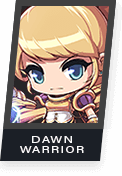
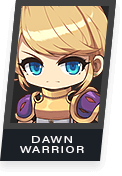
Nova updated to newer format
+CK portraits updated to remaster ones
+Added back class suggestions in CO outro
+Winter theme + monad tribute

diff --git a/components/ClassSwipers.js b/components/ClassSwipers.js
@@ -141,7 +141,7 @@ export function TopClassSwipe({classes}){
     Created by: Ikasuu, Fall 2020
 */
 
-function ClassSwipe({classGroup}) {
+function ClassSwipe({classTitle, classGroup}) {
     let name = classGroup
     
     // Removes words like (Xenon) or (Beast Tamer) for Resistance and Other type classes when displaying <h5>
@@ -181,21 +181,22 @@ function ClassSwipe({classGroup}) {
                     }
                 }}
             >
-                {renderSwitch(name)}
+                {renderSwitch(name, classTitle)}
             </Swiper>
         </LazyLoad>
     );
 }
 
 //Renders the proper class groups based on current class group
-function renderSwitch(param){
-    switch (param) {
+function renderSwitch(classGroup, classTitle){
+    switch (classGroup) {
         case "Explorers":
+            var classArr = classes.explorers.filter(job => job[1] != classTitle);
             return(
-                classes.explorers.map((job, index) => 
+                classArr.map((job, index) => 
                     <SwiperSlide key={index}>
                         <Link href="/explorers/[slug]" as={`/explorers/${job[0]}`}>
-                            <a className="hvr-float">
+                            <a className="hvr-float" target="_blank" rel="noreferrer noopener">
                                 <Image src={`/class-portrait/${job[0]}.png`} style={{width: '100px', margin: '1rem 0 1rem 0'}}/>
                                 <Overlay/>
                             </a>
@@ -205,11 +206,12 @@ function renderSwitch(param){
             );
 
         case "Cygnus Knights":
+            var classArr = classes.cygnusKnights.filter(job => job[1] != classTitle);
             return(
-                classes.cygnusKnights.map((job, index) => 
+                classArr.map((job, index) => 
                     <SwiperSlide key={index}>
                         <Link href="/cygnus-knights/[slug]" as={`/cygnus-knights/${job[0]}`}>
-                            <a className="hvr-float">
+                            <a className="hvr-float" target="_blank" rel="noreferrer noopener">
                                 <Image src={`/class-portrait/${job[0]}.png`} style={{width: '100px', margin: '1rem 0 0 0'}}/>
                                 <Overlay/>
                             </a>
@@ -219,11 +221,12 @@ function renderSwitch(param){
             );
 
         case "Heroes":
+            var classArr = classes.heroes.filter(job => job[1] != classTitle);
             return(
-                classes.heroes.map((job, index) => 
+                classArr.map((job, index) => 
                     <SwiperSlide key={index}>
                         <Link href="/heroes/[slug]" as={`/heroes/${job[0]}`}>
-                            <a className="hvr-float">
+                            <a className="hvr-float" target="_blank" rel="noreferrer noopener">
                                 <Image src={`/class-portrait/${job[0]}.png`} style={{width: '100px', margin: '1rem 0 1rem 0'}}/>
                                 <Overlay/>
                             </a>
@@ -233,11 +236,12 @@ function renderSwitch(param){
             );
 
         case "Resistance":
+            var classArr = classes.resistance.filter(job => job[1] != classTitle);
             return(
-                classes.resistance.map((job, index) => 
+                classArr.map((job, index) => 
                     <SwiperSlide key={index}>
                         <Link href="/resistance/[slug]" as={`/resistance/${job[0]}`}>
-                            <a className="hvr-float">
+                            <a className="hvr-float" target="_blank" rel="noreferrer noopener">
                                 <Image src={`/class-portrait/${job[0]}.png`} style={{width: '100px', margin: '1rem 0 1rem 0'}}/>
                                 <Overlay/>
                             </a>
@@ -247,11 +251,12 @@ function renderSwitch(param){
             );
 
         case "Nova":
+            var classArr = classes.nova.filter(job => job[1] != classTitle);
             return(
-                classes.nova.map((job, index) => 
+                classArr.map((job, index) => 
                     <SwiperSlide key={index}>
                         <Link href="/nova/[slug]" as={`/nova/${job[0]}`}>
-                            <a className="hvr-float">
+                            <a className="hvr-float" target="_blank" rel="noreferrer noopener">
                                 <Image src={`/class-portrait/${job[0]}.png`} style={{width: '100px', margin: '1rem 0 1rem 0'}}/>
                                 <Overlay/>
                             </a>
@@ -261,11 +266,12 @@ function renderSwitch(param){
             );
 
         case "Sengoku":
+            var classArr = classes.sengoku.filter(job => job[1] != classTitle);
             return(
-                classes.sengoku.map((job, index) => 
+                classArr.map((job, index) => 
                     <SwiperSlide key={index}>
                         <Link href="/sengoku/[slug]" as={`/sengoku/${job[0]}`}>
-                            <a className="hvr-float">
+                            <a className="hvr-float" target="_blank" rel="noreferrer noopener">
                                 <Image src={`/class-portrait/${job[0]}.png`} style={{width: '100px', margin: '1rem 0 1rem 0'}}/>
                                 <Overlay/>
                             </a>
@@ -275,11 +281,27 @@ function renderSwitch(param){
             );
 
         case "Flora":
+            var classArr = classes.flora.filter(job => job[1] != classTitle);
             return(
-                classes.flora.map((job, index) => 
+                classArr.map((job, index) => 
                     <SwiperSlide key={index}>
                         <Link href="/flora/[slug]" as={`/flora/${job[0]}`}>
-                            <a className="hvr-float">
+                            <a className="hvr-float" target="_blank" rel="noreferrer noopener">
+                                <Image src={`/class-portrait/${job[0]}.png`} style={{width: '100px', margin: '1rem 0 1rem 0'}}/>
+                                <Overlay/>
+                            </a>
+                        </Link>
+                    </SwiperSlide>
+                )
+            );
+
+        case "Anima":
+            var classArr = classes.anima.filter(job => job[1] != classTitle);
+            return(
+                classArr.map((job, index) => 
+                    <SwiperSlide key={index}>
+                        <Link href="/anima/[slug]" as={`/anima/${job[0]}`}>
+                            <a className="hvr-float" target="_blank" rel="noreferrer noopener">
                                 <Image src={`/class-portrait/${job[0]}.png`} style={{width: '100px', margin: '1rem 0 1rem 0'}}/>
                                 <Overlay/>
                             </a>
@@ -289,11 +311,12 @@ function renderSwitch(param){
             );
 
         case "Other":
+            var classArr = classes.other.filter(job => job[1] != classTitle);
             return(
-                classes.other.map((job, index) => 
+                classArr.map((job, index) => 
                     <SwiperSlide key={index}>
                         <Link href="/other/[slug]" as={`/other/${job[0]}`}>
-                            <a className="hvr-float">
+                            <a className="hvr-float" target="_blank" rel="noreferrer noopener">
                                 <Image src={`/class-portrait/${job[0]}.png`} style={{width: '100px', margin: '1rem 0 1rem 0'}}/>
                                 <Overlay/>
                             </a>
@@ -303,11 +326,12 @@ function renderSwitch(param){
             );
 
         default:
+            var classArr = classes.explorers.filter(job => job[1] != classTitle);
             return(
-                classes.explorers.map((job, index) => 
+                classArr.map((job, index) => 
                     <SwiperSlide key={index}>
                         <Link href={`/explorers/${job[0]}`}>
-                            <a className="hvr-float">
+                            <a className="hvr-float" target="_blank" rel="noreferrer noopener">
                                 <Image src={`/class-portrait/${job[0]}.png`} style={{width: '100px', margin: '1rem 0 1rem 0'}}/>
                                 <Overlay/>
                             </a>

diff --git a/components/class-overview/ClassOutro.js b/components/class-overview/ClassOutro.js
@@ -18,7 +18,7 @@ export function ClassOutro({classGroup, classTitle, moreInfo, credits}) {
             <BannerAdThree/>
             <hr/>
             <ClassMoreInfo classTitle={classTitle} moreInfo={moreInfo}/>
-            <ClassSuggestions classGroup={classGroup}/>
+            <ClassSuggestions classTitle={classTitle} classGroup={classGroup}/>
             <ClassCredit credits={credits}/>
         </div>
     );
@@ -47,11 +47,10 @@ function ClassMoreInfo({classTitle, moreInfo}) {
     Created by: Ikasuu, Fall 2020
 */
 
-function ClassSuggestions({classGroup}) {
+function ClassSuggestions({classTitle, classGroup}) {
     return (
         <div>
-            {/* Removed until fixed */}
-            {/* <ClassSwipe classGroup={classGroup}/> */}
+            <ClassSwipe classTitle={classTitle} classGroup={classGroup}/>
         </div>
     );
 }

diff --git a/special/SiteValues.js b/special/SiteValues.js
@@ -4,19 +4,19 @@
 */
 
 //Latest version of GMS
-export const version = 235; 
-export const versionName = "Rocking Revamp Update"
+export const version = 236; 
+export const versionName = "Midnight Carnival Update"
 
 export const loadingImage = "/loading.gif";
 export const logo = "/logo.png";
 
 //Image paths for our page headers
 export const HeaderImageUrl = {
-    library: "/headers/grandis-library.png",
-    grandis: "/headers/borderless.png",
-    fox: "/headers/fox-valley.png",
-    verdel: "/headers/verdel.png",
-    ristonia: "/headers/ristonia.png"
+    library: "/headers/monad-1.png",
+    grandis: "/headers/monad-2.png",
+    fox: "/headers/monad-3.png",
+    verdel: "/headers/monad-4.png",
+    ristonia: "/headers/monad-5.png"
 };
 
 // Image paths for the home buttons
